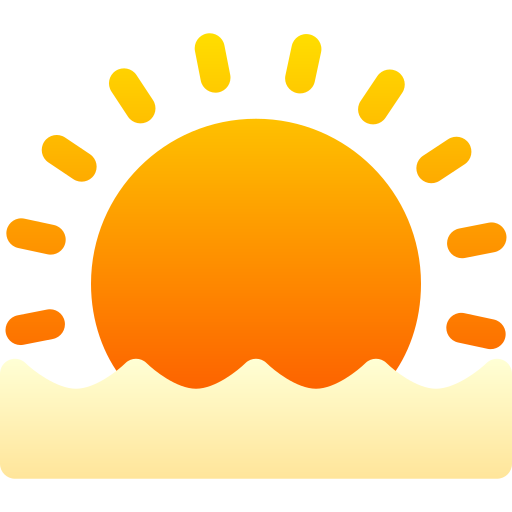
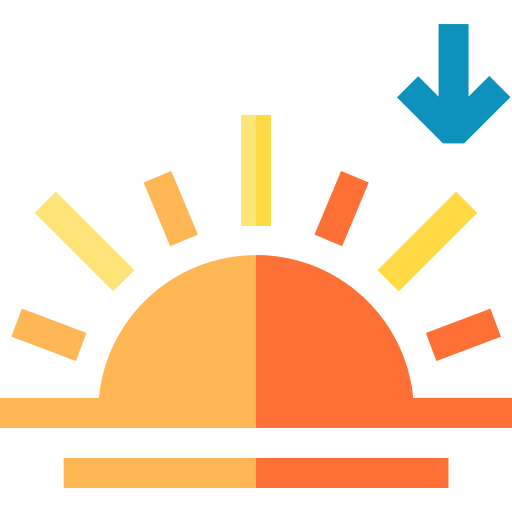
MainGUI Visual Update

diff --git a/src/MainGUI.py b/src/MainGUI.py
@@ -1,12 +1,10 @@
-from tkinter import *
-from tkinter import font
-from PIL import Image, ImageTk
+from TKHelper import *
 import Calendar, Weather
 import datetime
 
 T_POS_X, T_POS_Y = 100, 150
-B_Size = 80
-B_POS_X, B_POS_Y = 1100, 100
+B_Size = 75
+B_POS_X, B_POS_Y = 1150, 50
 
 class MainGUI:
     def __init__(self):
@@ -20,6 +18,7 @@ class MainGUI:
         self.LoadFonts()
         self.SetBackGround()
         self.SetMainTexts()
+        self.SetMainWeather()
         self.SetButtons()
 
         self.gui.mainloop()
@@ -31,8 +30,9 @@ class MainGUI:
         self.font_dic["Cooper"] = font.Font(family="Cooper Black", size=16, weight="bold")
 
     def SetBackGround(self):
-        self.bgImg = PhotoImage(file="asset/bg_sunset.png")
-        self.canvas.create_image((0, 0), image=self.bgImg, anchor=N+W)
+        bgImg = PhotoImage(file="asset/bg_sunset.png")
+        image_list.append(bgImg)
+        self.canvas.create_image((0, 0), image=bgImg, anchor=N+W)
 
     def SetMainTexts(self):
         self.travel_date = datetime.datetime(2021, 5, 15, 20, 30)
@@ -50,10 +50,16 @@ class MainGUI:
                                 text=("일출 시간: " + self.travel_date.strftime("%Y-%m-%d %H:%M:%S")), anchor=W, fill="lavender")
         self.cur_location_text = self.canvas.create_text((T_POS_X, T_POS_Y + 280), font=self.font_dic["Cooper"],\
                                 text=("지역: " + self.cur_location), anchor=W, fill="lavender")
-        self.cur_weather_text = self.canvas.create_text((T_POS_X, T_POS_Y + 380), font=self.font_dic["Cooper"],\
-                                text="", anchor=W, fill="lavender")
-        self.cur_weather_icon =  self.canvas.create_image((T_POS_X, T_POS_Y + 430), image=None, anchor=W)
         self.UpdateTime()
+
+
+    def SetMainWeather(self):
+        CreateAlphaRectangle(self.gui, self.canvas, T_POS_X - 30, T_POS_Y + 330, T_POS_X + 500, T_POS_Y + 480,\
+                             color="white", alpha=0.7)
+
+        self.cur_weather_text = self.canvas.create_text((T_POS_X, T_POS_Y + 380), font=self.font_dic["Cooper"], \
+                                                       text="", anchor=W, fill="dim gray")
+        self.cur_weather_icon = self.canvas.create_image((T_POS_X, T_POS_Y + 430), image=None, anchor=W)
         self.UpdateWeather()
 
     def UpdateTime(self):
@@ -72,31 +78,28 @@ class MainGUI:
         self.canvas.itemconfig(self.cur_weather_text, text=("날씨: {0}, 기온: {1}, 구름양: {2}").format(\
             w_data[0], w_data[1], w_data[2]))
         self.weather_icon = PhotoImage(data=w_data[3])
-        self.weather_icon.subsample(3, 3)
         self.canvas.itemconfig(self.cur_weather_icon, image=self.weather_icon)
         self.gui.after(5000, self.UpdateTime)
 
-
     def SetButtons(self):
-        self.b_image_list = []
         self.SetMainButton("asset/magnifier.png", B_POS_X, B_POS_Y)
-        self.SetMainButton("asset/map.png", B_POS_X, B_POS_Y + B_Size)
-        self.SetMainButton("asset/calendar.png", B_POS_X, B_POS_Y + B_Size * 2, self.CreateCalendar)
-        self.SetMainButton("asset/sunset.png", B_POS_X, B_POS_Y + B_Size * 3)
-        self.SetMainButton("asset/detail.png", B_POS_X, B_POS_Y + B_Size * 4)
-        self.SetMainButton("asset/gmail.png", B_POS_X, B_POS_Y + B_Size * 5)
-        self.SetMainButton("asset/telegram.png", B_POS_X, B_POS_Y + B_Size * 6)
+        self.SetMainButton("asset/sunrise.png", B_POS_X, B_POS_Y + B_Size)
+        self.SetMainButton("asset/map.png", B_POS_X, B_POS_Y + B_Size * 2)
+        self.SetMainButton("asset/calendar.png", B_POS_X, B_POS_Y + B_Size * 3, self.CreateCalendar)
+        self.SetMainButton("asset/forecast.png", B_POS_X, B_POS_Y + B_Size * 4, self.CreateForecast)
+        self.SetMainButton("asset/detail.png", B_POS_X, B_POS_Y + B_Size * 5)
+        self.SetMainButton("asset/gmail.png", B_POS_X, B_POS_Y + B_Size * 6)
+        self.SetMainButton("asset/telegram.png", B_POS_X, B_POS_Y + B_Size * 7)
 
-
-    def SetMainButton(self, dir, x_pos, y_pos, cmd = None):
+    def SetMainButton(self, dir, x_pos, y_pos, cmd=None):
         img = Image.open(dir)
         img = img.resize((B_Size, B_Size), Image.ANTIALIAS)
         b_image = ImageTk.PhotoImage(img)
-        self.b_image_list.append(b_image)
+        image_list.append(b_image)
         Button(self.canvas, image=b_image, width=B_Size, height=B_Size, command=cmd).place(x=x_pos, y=y_pos)
 
     def CreateCalendar(self):
-        Calendar.Cal(self)
+        Calendar.CalendarGUI(self)
 
-
-
+    def CreateForecast(self):
+        Weather.ForecastGUI(self)

diff --git a/src/Weather.py b/src/Weather.py
@@ -2,6 +2,7 @@ import urllib.request
 import json
 import base64
 import datetime
+from TKHelper import *
 
 apikey = "733f3162f8e13267b03559210f37cc68"
 
@@ -29,9 +30,12 @@ def ShowCurrentWeather():
     data = [json_data["weather"][0]["description"], round(k2c(json_data["main"]["temp"])), json_data["clouds"]["all"],\
             base64.encodebytes(icon_data)]
     return data
-    # print("| 날씨 =", )
-    # print("| 기온 =", )
-    # print("| 구름양 = ", )
+
+class ForecastGUI:
+    def __init__(self, MainGui):
+        self.main_gui = MainGui
+        self.gui = Toplevel(self.main_gui.gui)
+        self.gui.title("Forecast")
 
 
 

diff --git a/src/TKHelper.py b/src/TKHelper.py
@@ -1,0 +1,15 @@
+from tkinter import *
+from tkinter import font
+from PIL import Image, ImageTk
+
+image_list = []
+
+def CreateAlphaRectangle(gui, canvas, x1, y1, x2, y2, **kwargs):
+    if "alpha" in kwargs:
+        alpha = int(kwargs.pop("alpha") * 255)
+        color = kwargs.pop("color")
+        color = gui.winfo_rgb(color) + (alpha,)
+        image = Image.new("RGBA", (x2-x1, y2-y1), color)
+        image_list.append(ImageTk.PhotoImage(image))
+        canvas.create_image(x1, y1, image=image_list[-1], anchor="nw")
+    canvas.create_rectangle(x1, y1, x2, y2, **kwargs)

diff --git a/src/Calendar.py b/src/Calendar.py
@@ -1,12 +1,13 @@
-from tkinter import *
+from TKHelper import *
 from tkcalendar import Calendar
 import MainGUI
 import datetime
 
-class Cal:
+class CalendarGUI:
     def __init__(self, MainGui):
         self.main_gui = MainGui
         self.cal_gui = Toplevel(self.main_gui.gui)
+        self.cal_gui.title("Calendar")
         now = datetime.datetime.now()
         self.cal = Calendar(self.cal_gui, selectmode='day', year=now.year, month=now.month, day=now.day)
         self.cal.pack(pady = 20)
